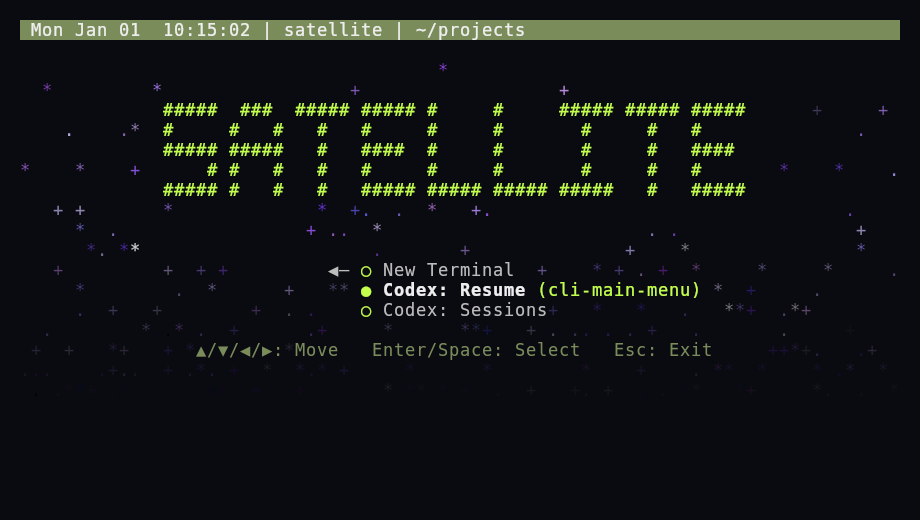
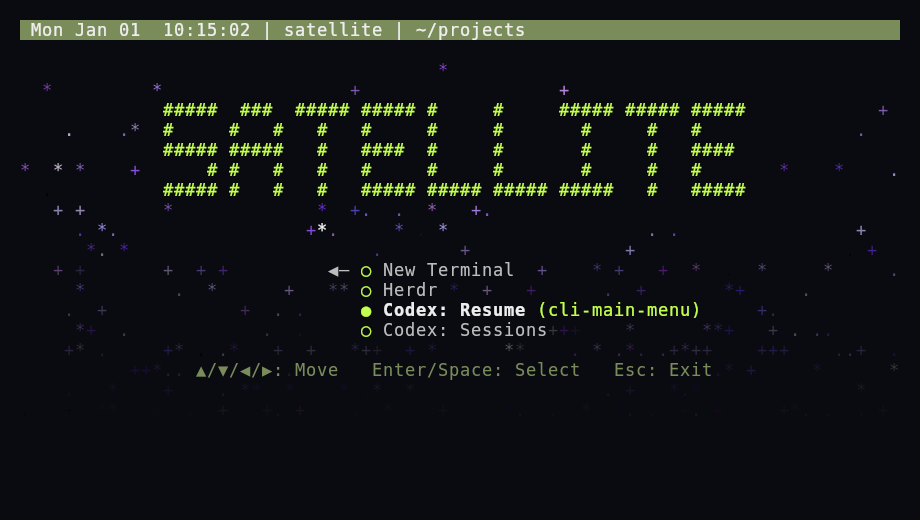
Install persistent Herdr integration as second home option

diff --git a/README.md b/README.md
@@ -62,6 +62,12 @@ or from any row at the filesystem root. From the second row onward it otherwise
 always opens the parent.
 
 - **New Terminal** returns to your shell. Selecting **Exit** closes that shell.
+- **Herdr**, the second option, opens the Herdr UI and returns here when you
+  detach with Ctrl+B, then Q. Its binary is installed at
+  `/mnt/user/live/packages/herdr/bin/herdr`; configuration and saved state live
+  under `/mnt/user/appdata/herdr`. The Unraid boot hook restores PATH and the
+  `~/.config/herdr` link after reboot. Reopen the menu after `source ~/.bashrc`
+  to load changes. On other systems, install `herdr` on PATH or set `HERDR_BIN`.
 - **Codex: New Session** appears when no sessions exist and asks for a unique
   name, starting directory, and account. The directory picker starts at your current
   directory, lets you browse or type a path, and can create a new directory.

diff --git a/AGENTS.md b/AGENTS.md
@@ -18,6 +18,9 @@ contains text/path input widgets.
 - Define options in `menu.bash`, without hard-coded counts elsewhere. Keep the
   centered, left-aligned option block; one ○/● marker column; disabled styling
   and indivisible notes; responsive hints; and numbered non-TTY selection.
+- Keep Herdr as the second home option. It opens its own UI and returns to the
+  same selection on detach. Preserve its persistent Unraid PATH/configuration
+  hooks; restoring boot hooks and sourcing shell files must not start Herdr.
 - Run actions in the calling shell so `fg` sees its jobs. Isolate only the
   selector. Skip disabled choices in both directions and reject them in the
   numeric fallback. Separator rows use a non-selectable `•` in the marker column,
